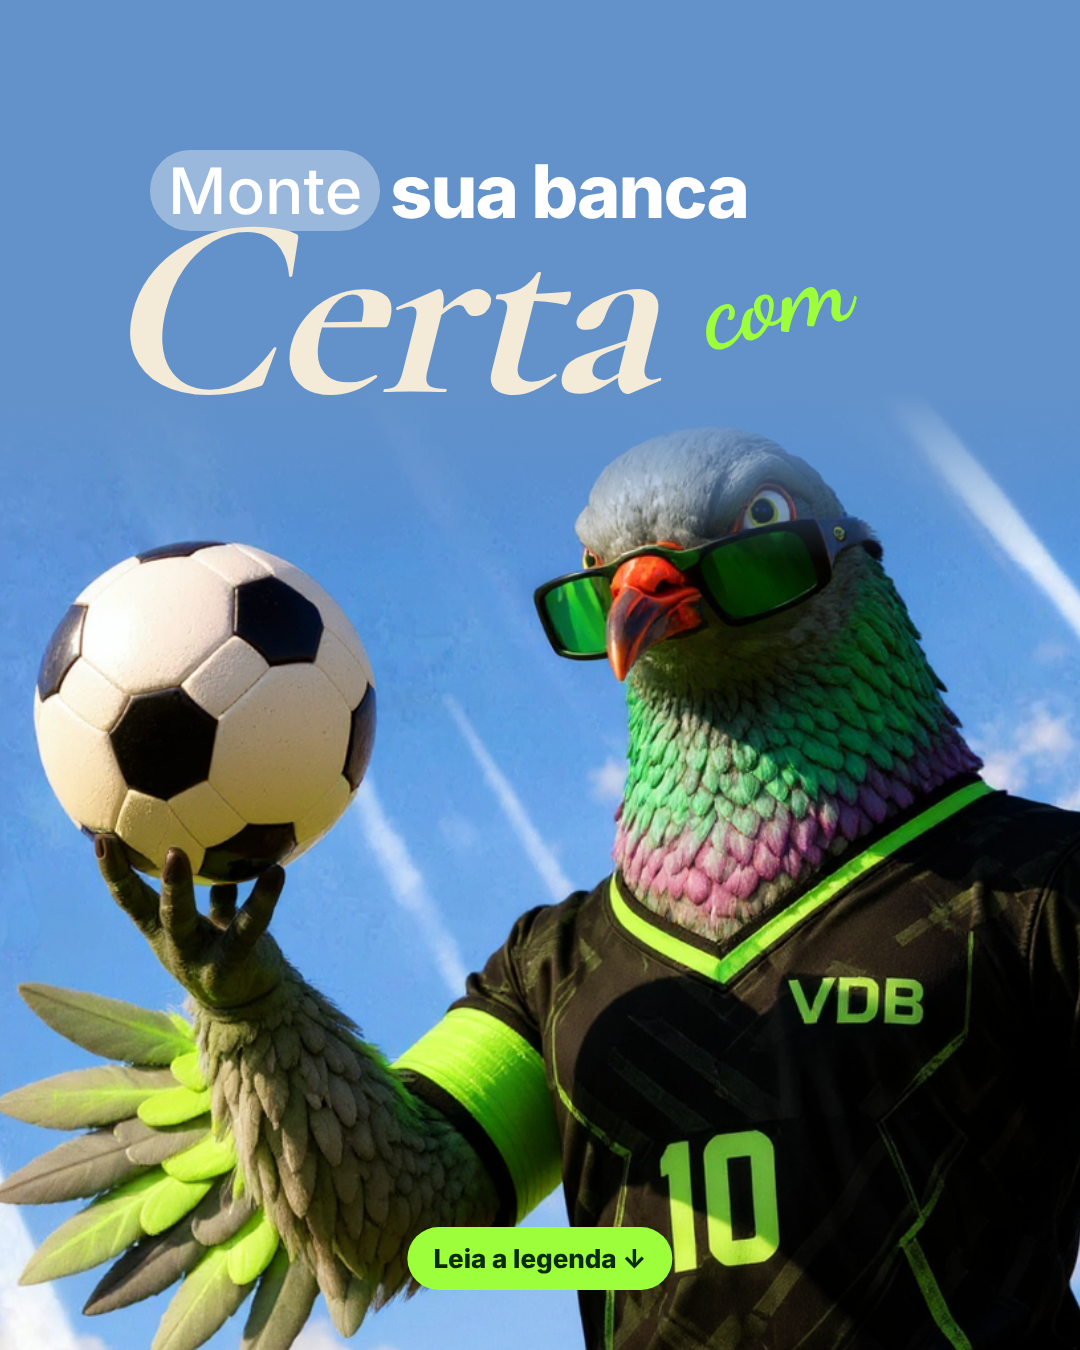
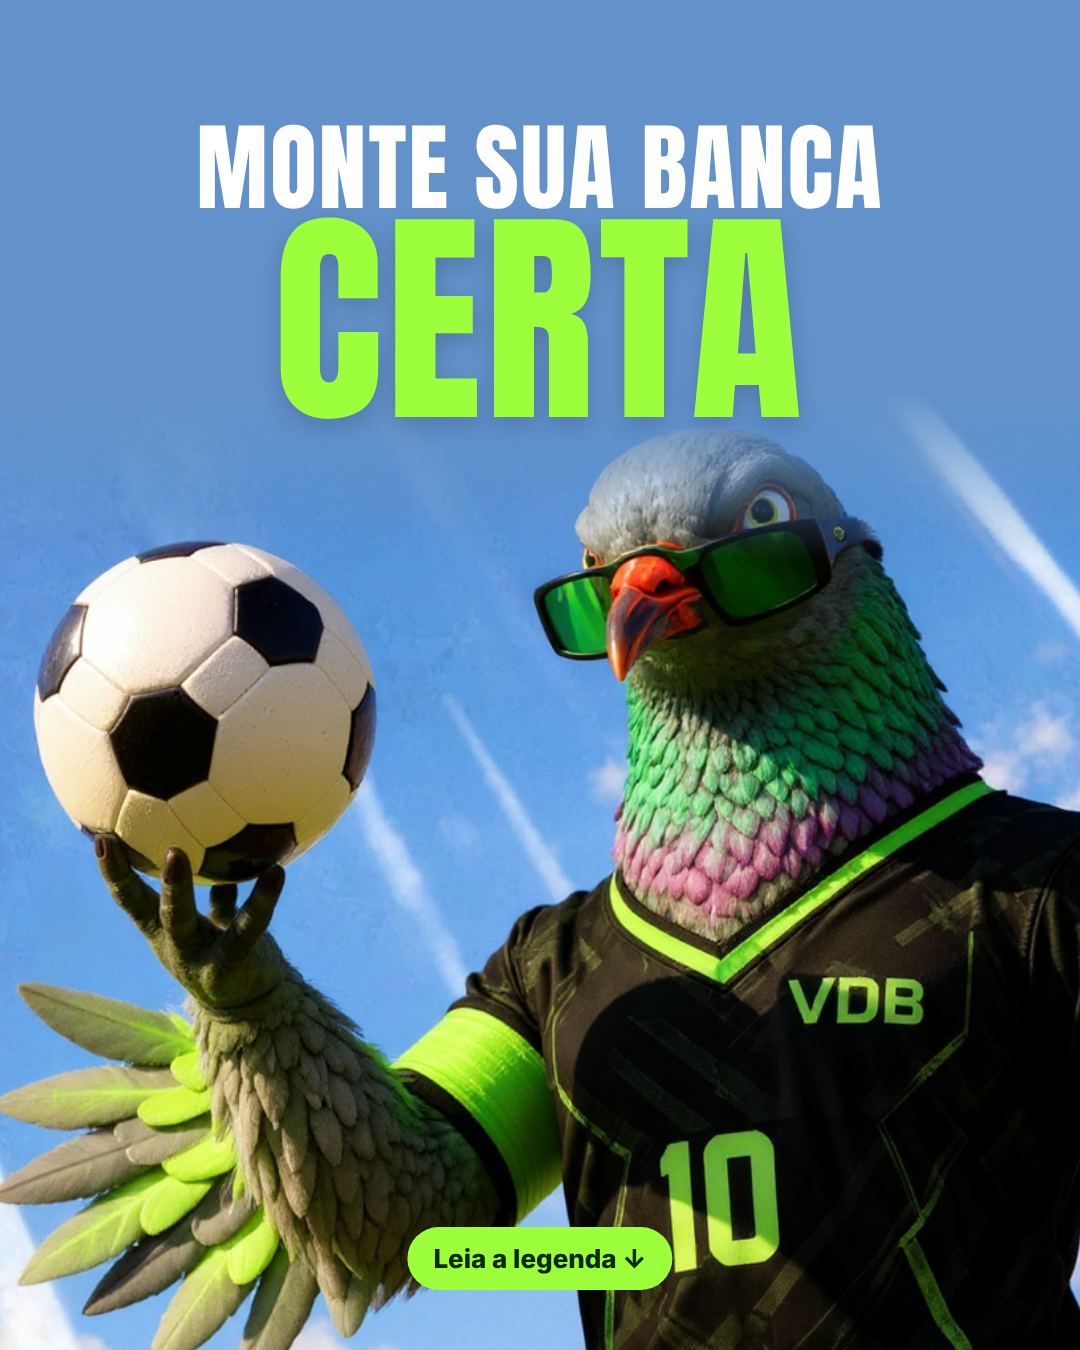
Estático 19: título numa fonte só (Anton, da marca)
Claude-Session: https://claude.ai/code/session_017mkQW4f9RfZB1iSbiGkvms

Changed region(s): [[0.1222, 0.0933, 0.825, 0.3111]]

diff --git a/banco/tpl-estatico/layout-19.html b/banco/tpl-estatico/layout-19.html
@@ -18,6 +18,6 @@ body{margin:0}#s{width:1080px;height:1350px;position:relative;overflow:hidden}
 .s{position:absolute;left:700px;top:230px;font:700 110px S;color:#9dff3c;transform:rotate(-12deg)}
 .box{position:absolute;right:60px;bottom:200px;background:rgba(20,120,40,.85);color:#fff;font:800 70px/1 I8;padding:20px 28px;letter-spacing:-2px}
 .cta{left:50%;transform:translateX(-50%);bottom:60px;background:#9dff3c;color:#0b2a10;font-size:26px}
-</style></head><body><div id=s><img class=bg src="c19.png" style="transform:scale(1.08) translateY(250px);transform-origin:70% 100%">
-<div style="position:absolute;left:0;right:0;top:0;height:560px;background:linear-gradient(#6392ca 70%,rgba(99,146,202,0))"></div><div class=p>Monte</div><div class=p2>sua banca</div><div class=g>Certa</div><div class=s>com</div>
+.h1{position:absolute;left:0;right:0;text-align:center;top:120px;font:400 96px/1 A;color:#fff;letter-spacing:2px}.h2{position:absolute;left:0;right:0;text-align:center;top:205px;font:400 230px/1 A;color:#9dff3c;letter-spacing:4px;text-shadow:0 8px 24px rgba(0,0,0,.18)}</style></head><body><div id=s><img class=bg src="c19.png" style="transform:scale(1.08) translateY(250px);transform-origin:70% 100%">
+<div style="position:absolute;left:0;right:0;top:0;height:560px;background:linear-gradient(#6392ca 70%,rgba(99,146,202,0))"></div><div class=h1>MONTE SUA BANCA</div><div class=h2>CERTA</div>
 <div class=cta>Leia a legenda ↓</div></div></body></html>

diff --git a/conhecimento/agentes/designer/22-feed-estatico-quebra-de-padrao.md b/conhecimento/agentes/designer/22-feed-estatico-quebra-de-padrao.md
@@ -125,3 +125,4 @@ Arquivos em `banco/tpl-estatico/` (`ref-N`, `layout-N.html`, `teste-N.png`).
 - 16 APROVADA (Poppins). 17 (pente fino): texto na fonte da marca (Marketing Raiz = Montserrat), palavras grandes em preto e linhas pequenas em cinza da marca, blocos afastados (um no alto, outro embaixo) para usar o espaço vazio e nunca ficar atrás do mascote.
 - 16 sem o "2026", título mais baixo. 17: os blocos de texto ficam PERTO do mascote (encostando nele), não longe nas bordas; palavras grandes em preto.
 - 17 APROVADA. 16: título logo acima da cabeça do mascote (encostando), sem sobra grande no topo.
+- 16 APROVADA. 19 (pente fino): título numa fonte só, a da marca (Vivendo de Bet = Anton): linha de cima branca menor + palavra-chave gigante na cor da marca. Nada de misturar pílula, serifa e manuscrito no mesmo título.
